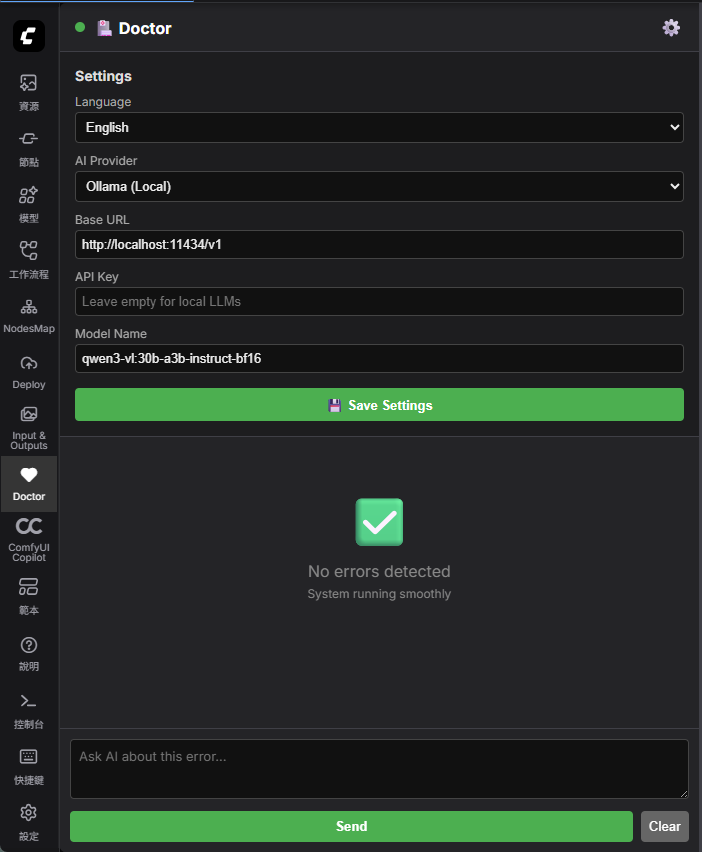
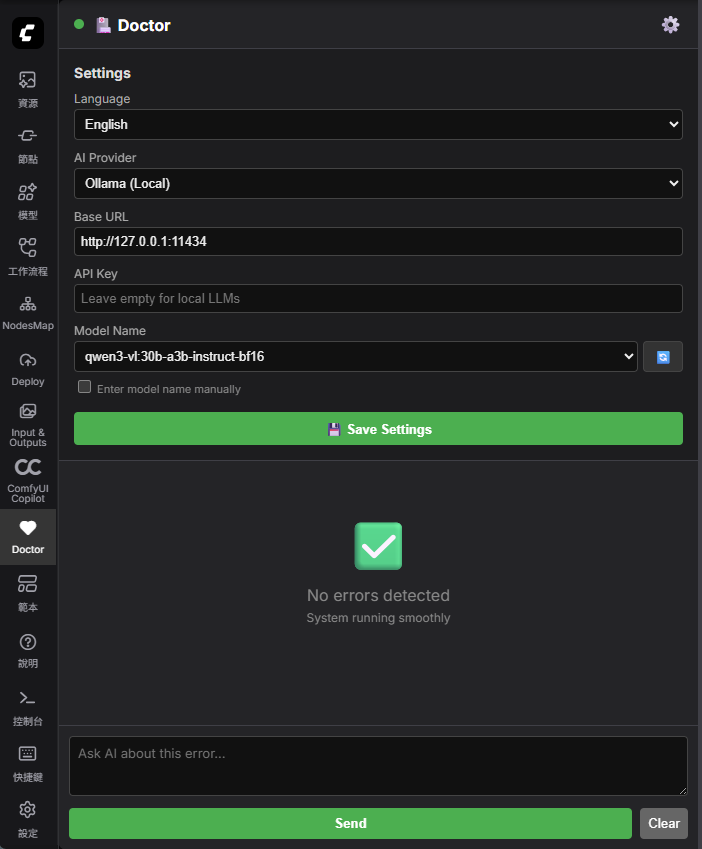
docs: update model dropdown feature description in settings section

diff --git a/web/doctor_chat.js b/web/doctor_chat.js
@@ -299,7 +299,7 @@ export class ChatPanel {
         this.contextBadge = panel.querySelector('#doctor-context-badge');
         this.contextActions = panel.querySelector('#doctor-context-actions');
 
-        // Setup smart auto-scroll (ComfyUI-Copilot pattern)
+        // Setup smart auto-scroll
         this.setupAutoScroll();
 
         // Auto-resize
@@ -415,7 +415,7 @@ export class ChatPanel {
     // Let's implement a "streamUpdate" method.
 
     setupAutoScroll() {
-        // ComfyUI-Copilot pattern: Smart auto-scroll with ResizeObserver + MutationObserver
+        // Smart auto-scroll with ResizeObserver + MutationObserver
         // Only scrolls if user is already at bottom, preserves scroll position otherwise
         if (!this.messagesContainer) return;
 
@@ -446,7 +446,7 @@ export class ChatPanel {
     }
 
     updateLastMessage(content) {
-        // Content hashing for deduplication (ComfyUI-Copilot pattern)
+        // Content hashing for deduplication
         const contentHash = content.slice(0, 100);
         if (this.lastContentHash === contentHash) {
             return; // Skip duplicate renders

diff --git a/web/doctor_ui.js b/web/doctor_ui.js
@@ -126,7 +126,6 @@ export class DoctorUI {
 
     /**
      * Update the modern sidebar tab content with error data.
-     * NEW SIMPLIFIED VERSION - Following ComfyUI-Copilot architecture
      */
     updateSidebarTab(data) {
         const errorContext = this.sidebarErrorContext;

diff --git a/README.zh-TW.md b/README.zh-TW.md
@@ -301,7 +301,12 @@ ComfyUI-Doctor 整合了主流 LLM 服務，提供智能化、上下文感知的
 ### 9. AI Model Name (AI 模型名稱)
 
 **功能**：指定用於錯誤分析的模型。
-**用途**：輸入模型識別碼（例如：`gpt-4o`、`deepseek-chat`、`llama3.1:8b`）。對於本地 LLM，切換提供商時會在警示對話框中顯示可用模型。
+**用途**：
+
+- **下拉選單模式**（預設）：從自動填充的下拉選單中選擇模型。點擊 🔄 重新整理按鈕可重新載入可用模型。
+- **手動輸入模式**：勾選「手動輸入模型名稱」以手動輸入自訂模型名稱（例如：`gpt-4o`、`deepseek-chat`、`llama3.1:8b`）。
+- 當您變更提供商或點擊重新整理時，模型會自動從所選提供商的 API 取得。
+- 對於本地 LLM（Ollama/LMStudio），下拉選單會顯示所有本地可用的模型。
 
 ---
 

diff --git a/README.md b/README.md
@@ -303,7 +303,11 @@ You can customize ComfyUI-Doctor behavior via the ComfyUI Settings panel (Gear i
 ### 9. AI Model Name
 
 **Function**: Specify which model to use for error analysis.
-**Usage**: Enter the model identifier (e.g., `gpt-4o`, `deepseek-chat`, `llama3.1:8b`). For local LLMs, switch provider to see available models in an alert dialog.
+**Usage**:
+- **Dropdown Mode** (default): Select a model from the automatically-populated dropdown list. Click the 🔄 refresh button to reload available models.
+- **Manual Input Mode**: Check "Enter model name manually" to type a custom model name (e.g., `gpt-4o`, `deepseek-chat`, `llama3.1:8b`).
+- Models are automatically fetched from your selected provider's API when you change providers or click refresh.
+- For local LLMs (Ollama/LMStudio), the dropdown displays all locally available models.
 
 ---
 
